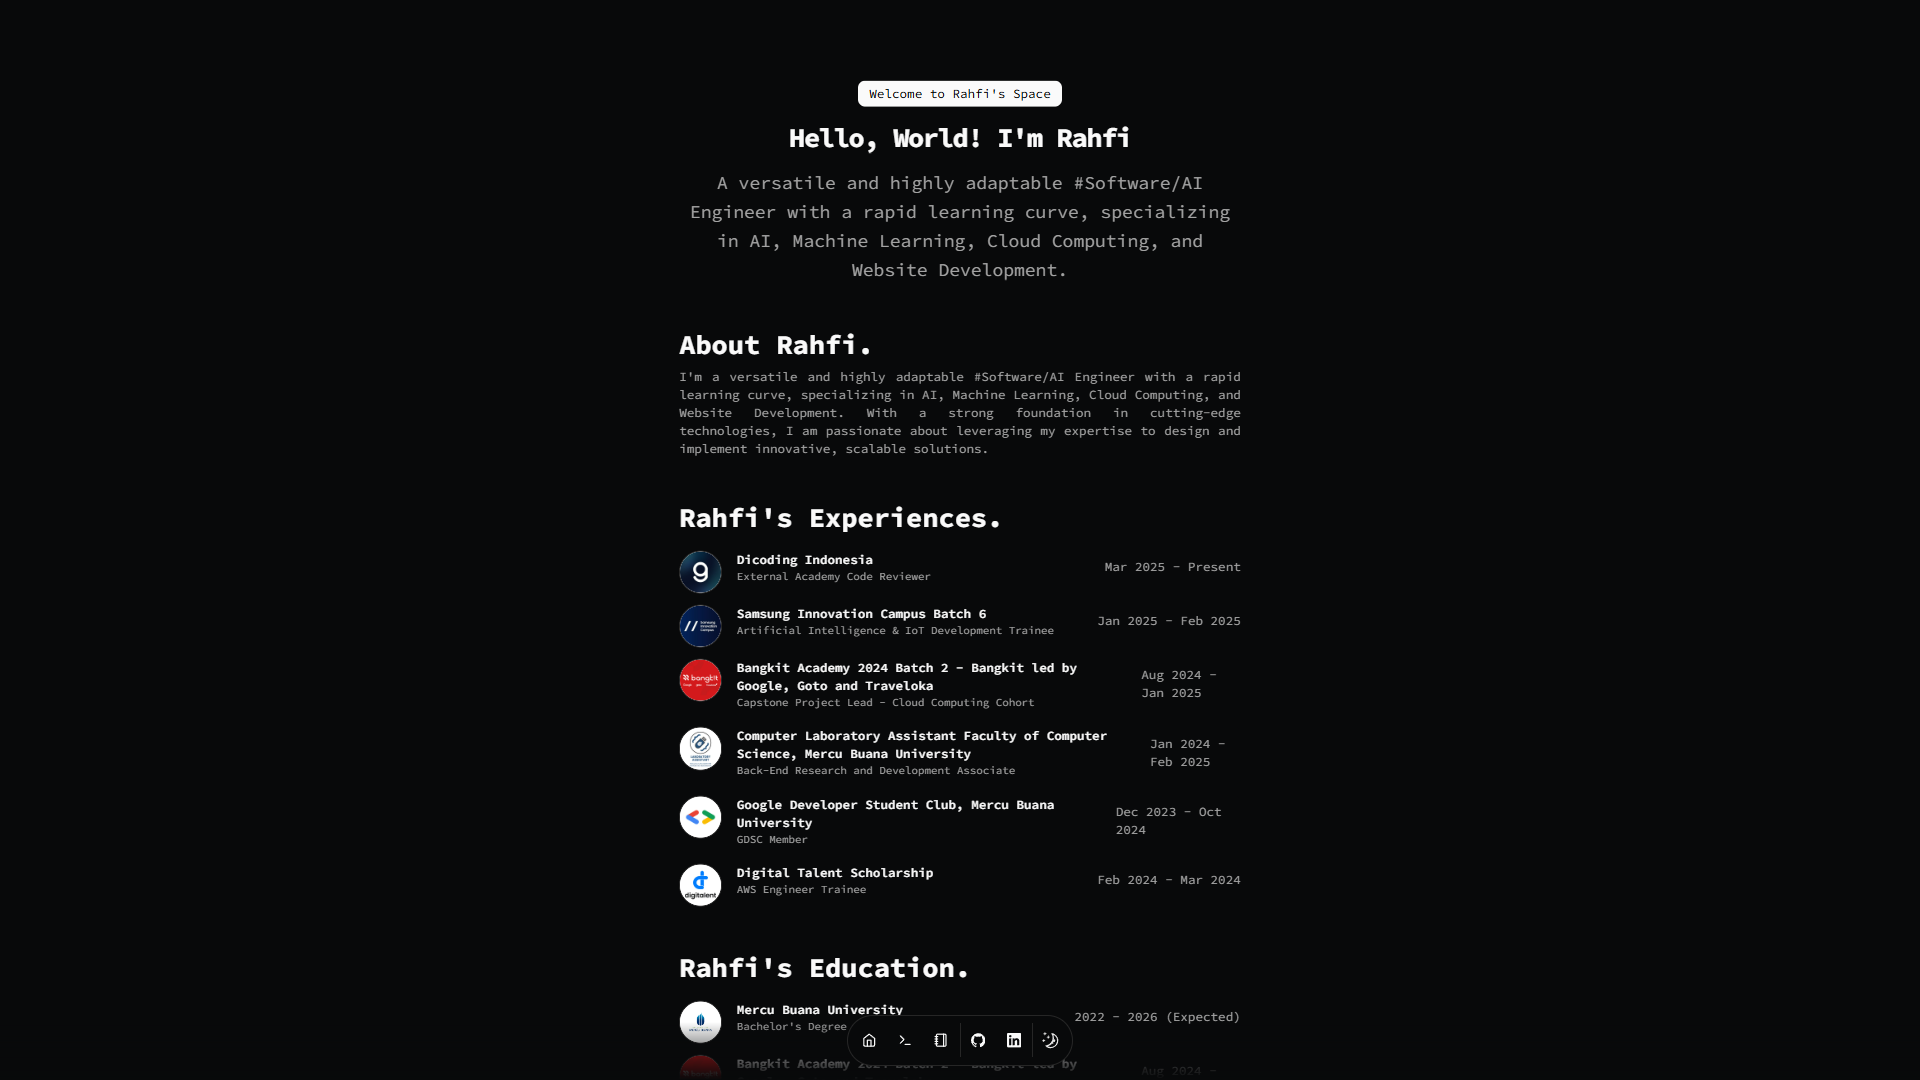
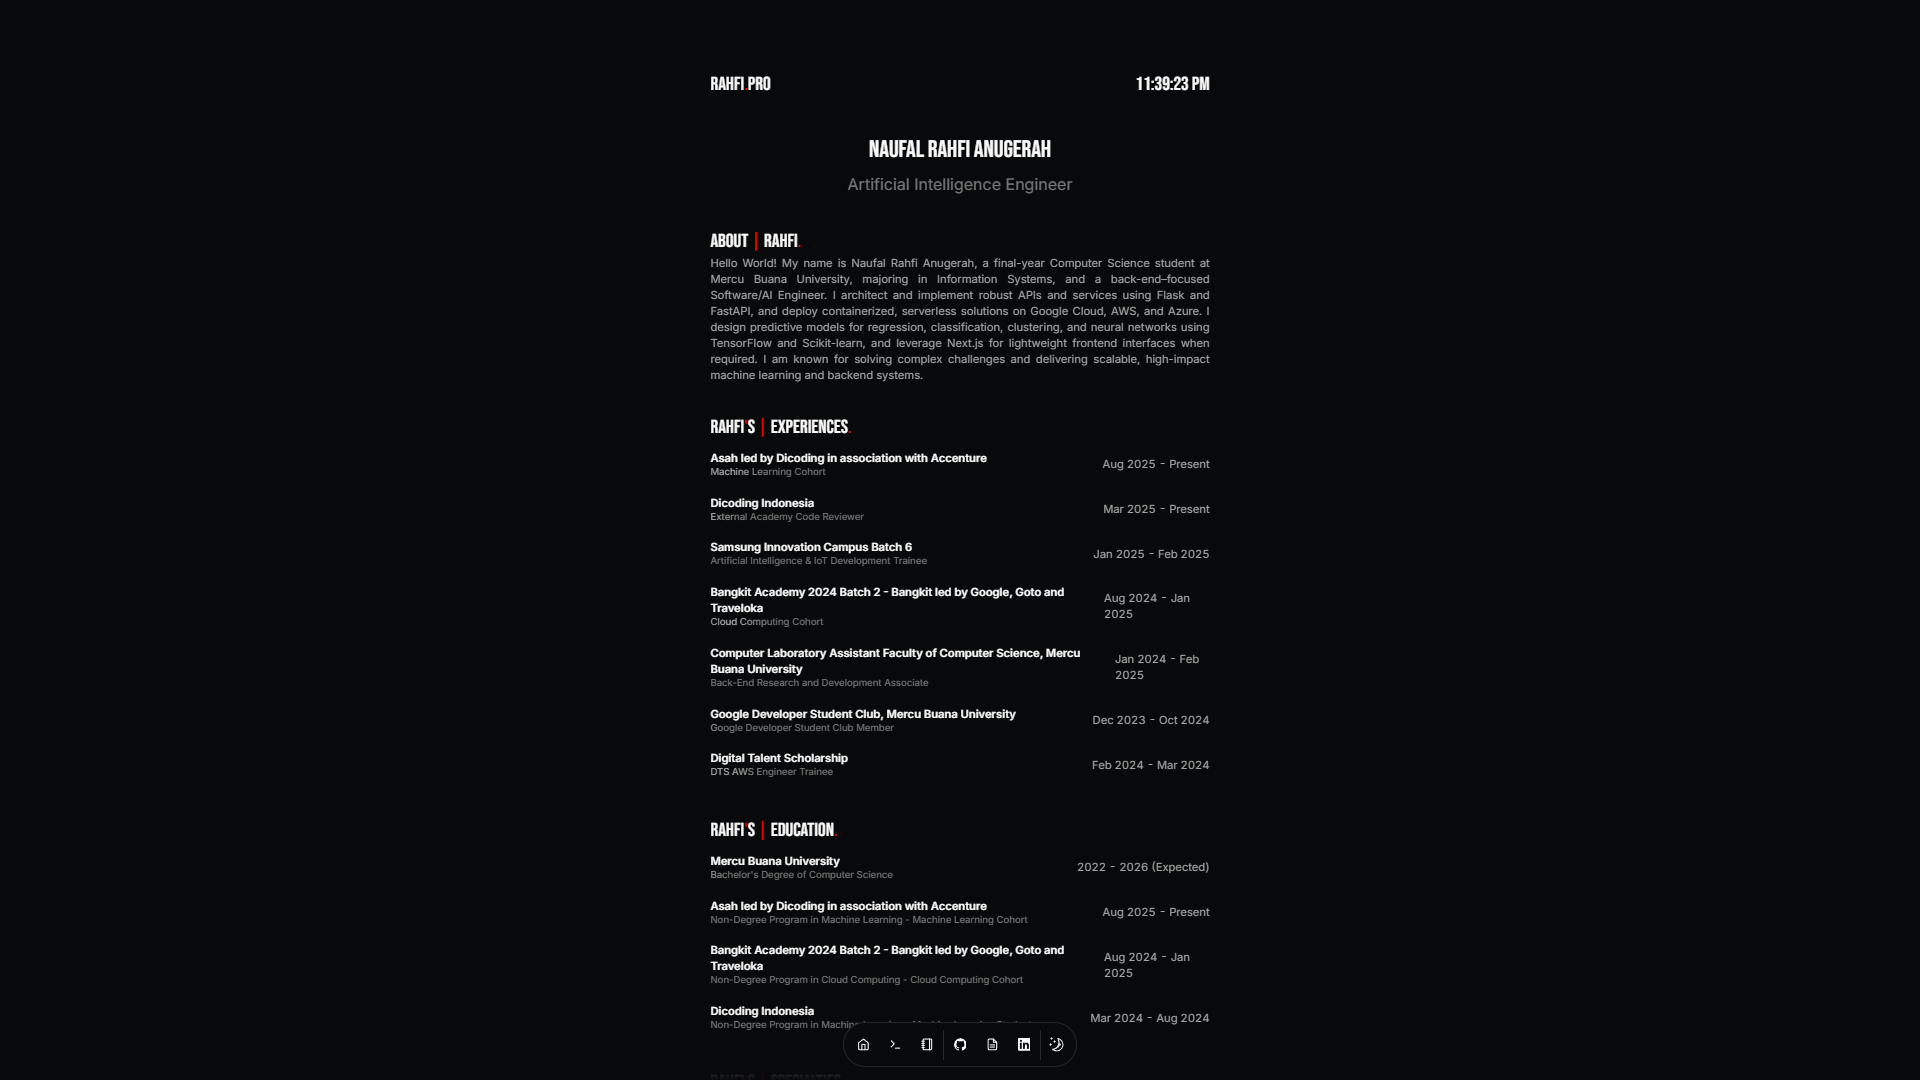
chore: update the project image for this website and update the resume

diff --git a/src/data/resume.tsx b/src/data/resume.tsx
@@ -3,13 +3,13 @@ import { TbCertificate } from "react-icons/tb";
 import { HomeIcon, NotebookIcon, TerminalIcon } from "lucide-react";
 
 export const DATA = {
-  name: "Rahfi",
+  name: "Naufal Rahfi Anugerah",
   initials: "R",
   url: "https://rahfi.pro",
   location: "Jakarta, Indonesia",
   locationLink: "https://www.google.com/maps/place/jakarta",
-  description: "A versatile and highly adaptable Software/AI Engineer with a rapid learning curve, specializing in AI, Machine Learning, Cloud Computing, and Website Development.",
-  summary: "Final-year Computer Science student at Mercu Buana University, majoring in Information Systems and Back-End focused Software/AI Engineer, I architect and implement robust APIs and services with Flask and FastAPI, deploy containerized, serverless solutions on Google Cloud, AWS and Azure, also design predictive models such as regression, classification, clustering, and neural networks using TensorFlow and Scikit-learn. I also leverage Next.js for lightweight frontend interfaces when required. Known for solving complex challenges and delivering scalable, high-impact machine-learning and backend systems.",
+  description: "Artificial Intelligence Engineer",
+  summary: "Final-year Computer Science student at Mercu Buana University, specializing in Information Systems and back-end–focused Software/AI Engineering. Experienced in building robust APIs with Flask and FastAPI, deploying containerized and serverless solutions on Google Cloud, AWS, and Azure, and developing predictive models using TensorFlow and Scikit-learn. Skilled in delivering scalable, high-impact machine learning and backend systems, with additional capability in lightweight frontend development using Next.js.",
   avatarUrl: "",
   programmingLanguages: [
     "Python",
@@ -313,26 +313,6 @@ export const DATA = {
         },
       ],
       image: "/rahfipro.png",
-      video: "",
-    },
-    {
-      title: "Commit Wave",
-      href: "",
-      status: "Archived",
-      description:
-        "Commit Wave is an automation tool designed to help developers keep their GitHub contribution history consistently active and engaging. By utilizing GitHub Actions or JavaScript based, this bot automates the process of generating and pushing commits at random intervals (GitHub Action & JavaScript) within a user-defined date range (JavaScript).",
-      technologies: [
-        "JavaScript",
-        "Node.js",
-      ],
-      links: [
-        {
-          type: "Source Code",
-          href: "https://github.com/rahfianugerah/commitwave",
-          icon: <Icons.github className="size-3" />,
-        },
-      ],
-      image: "/commitwave.png",
       video: "",
     },
   ],
